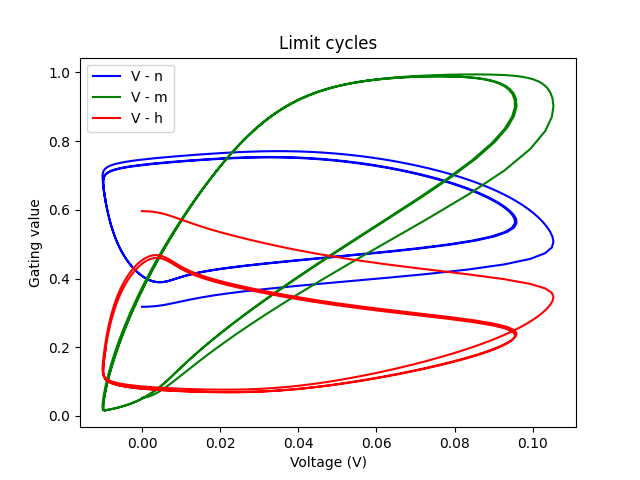
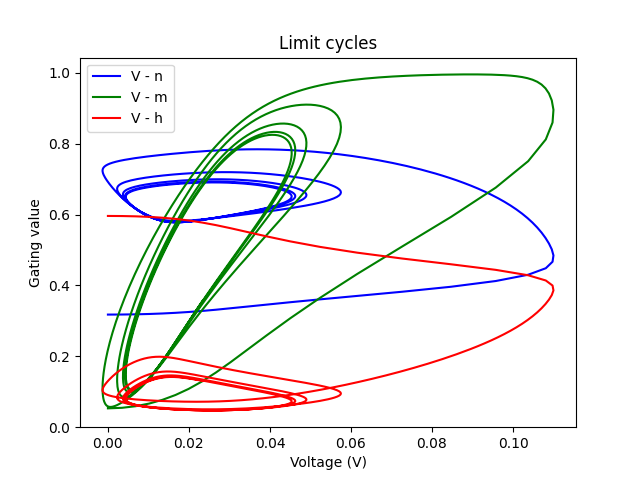
found bug in the conversion, doc implement & more

diff --git a/HH_model.py b/HH_model.py
@@ -13,34 +13,33 @@ class HodgkinHuxley():
         ### ALL UNITS NEED TO BE IN S.I. ###
         # Paremeters are passed from the command line when the program is executed
        
-        # print("Please Enter all the values in milli units (graphs will automatically convert to S.I. units)")
+        # print("Please Enter all the values in default units (graphs will automatically convert to S.I. units)")
         # self.g_na = float(input("Enter the value of gNa: "))                                   # Average sodoum channel conductance per unit area
-        # self.g_k  = float(input("Enter the value of gK: "))                                   # Average potassium channel conductance per unit area
-        # self.g_l  = float(input("Enter the value of gl: "))                                   # Average leak channel conductance per unit area
-        # self.C_m  = float(input("Enter the value of membrane capacitance in μ (micro) units: "))   # Membrane capacitance per unit area
-        # self.v    = float(input("Enter the value of the membrane potential v: "))             # vis the membrane potential
-        # self.vna  = float(input("Enter the value of vNa: "))                                  # Potassium potential
-        # self.vk   = float(input("Enter the value of vK: "))                                   # Sodium potential
-        # self.vl   = float(input("Enter the value of vl: "))                                   # Leak potential
-        # self.vthresh   = float(input("Enter the value of vthresh: "))                         # Voltage threshold for spikes
+        # self.g_k  = float(input("Enter the value of gK: "))                                    # Average potassium channel conductance per unit area
+        # self.g_l  = float(input("Enter the value of gl: "))                                    # Average leak channel conductance per unit area
+        # self.C_m  = float(input("Enter the value of membrane capacitance c_m: "))              # Membrane capacitance per unit area
+        # self.v    = float(input("Enter the value of the membrane potential v: "))              # vis the membrane potential
+        # self.vna  = float(input("Enter the value of vNa: "))                                   # Potassium potential
+        # self.vk   = float(input("Enter the value of vK: "))                                    # Sodium potential
+        # self.vl   = float(input("Enter the value of vl: "))                                    # Leak potential
+        # self.vthresh   = float(input("Enter the value of voltage threshold: "))                # Voltage threshold for spikes
         # self.tmin = float(input("Enter the start time : "))
         # self.tmax = float(input("Enter the end time: "))
-        # self.i_inj   = float(input("Enter the value of Input current i_inj: "))               # Input current
+        # self.i_inj   = float(input("Enter the value of Input current i_inj: "))                # Input current
 
                 
-        self.g_na = 120.*milli               
-        self.g_k  = 36.*milli                       
-        self.g_l  = 0.3*milli                   
-        self.c_m  = 1.*mu
+        self.g_na = 120.             
+        self.g_k  = 36.                       
+        self.g_l  = 0.3                   
+        self.c_m  = 1.
         self.v   = 0.
         self.vna  = 115.                        
         self.vk   = -12.                        
         self.vl   = 10.613   
-        self.vrest = 0.*milli
         self.vthresh = 55.*milli                      
         self.tmin = 0.*milli
         self.tmax = 35.*milli  
-        self.i_inj = 10.*milli
+        self.i_inj = 10.*10**(-2)
         
         # self.dt = 0.001
         self.t  = np.linspace(self.tmin, self.tmax, 1000) # Total duration of simulation [ms]
@@ -120,7 +119,7 @@ class HodgkinHuxley():
     def derivatives(self,y,t):
         der = np.zeros(4)
         
-        v= y[0]
+        v = y[0]
         n = y[1]
         m = y[2]
         h = y[3]
@@ -142,7 +141,7 @@ class HodgkinHuxley():
         return der
 
     def Main(self):
-        v= self.v
+        v = self.v 
         t = self.t
         y = np.array([v, self.n_inf(v), self.m_inf(v), self.h_inf(v)], dtype= 'float64')
 
@@ -152,7 +151,7 @@ class HodgkinHuxley():
         m = sol[:,2]
         h = sol[:,3]
 
-        firing_rate = self.frequency(v)
+        # firing_rate = self.frequency(v)
 
         ax = plt.subplot()
         ax.plot(t, v)
@@ -188,14 +187,14 @@ class HodgkinHuxley():
         plt.show()
 
         # F-I curve
-        ax = plt.subplot()
-        ax.plot(self.iinj, firing_rate)
-        # ax.plot(max(self.max_I))
-        ax.set_xlabel("Input Current(A)")
-        ax.set_ylabel("Firing rate(Hz)")
-        ax.set_title('f-I Curve')
-        plt.savefig('f-I Curve')
-        plt.show()
+        # ax = plt.subplot()
+        # ax.plot(self.iinj, firing_rate)
+        # # ax.plot(max(self.max_I))
+        # ax.set_xlabel("Input Current(A)")
+        # ax.set_ylabel("Firing rate(Hz)")
+        # ax.set_title('f-I Curve')
+        # plt.savefig('f-I Curve')
+        # plt.show()
 
 if __name__ == '__main__':
     runner = HodgkinHuxley()
